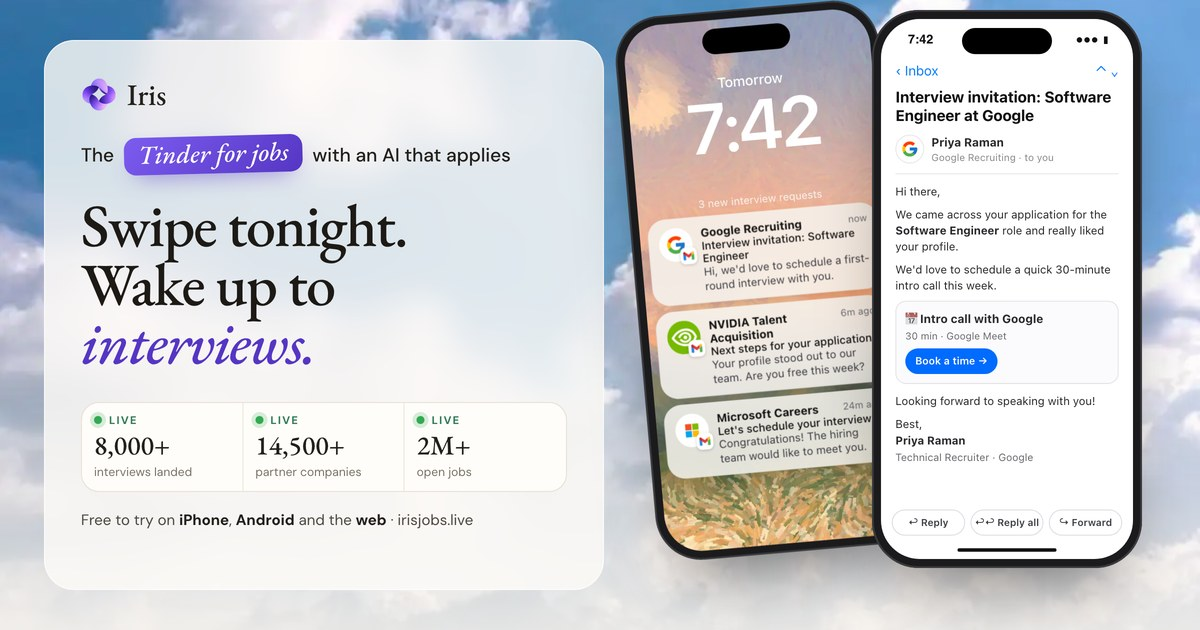
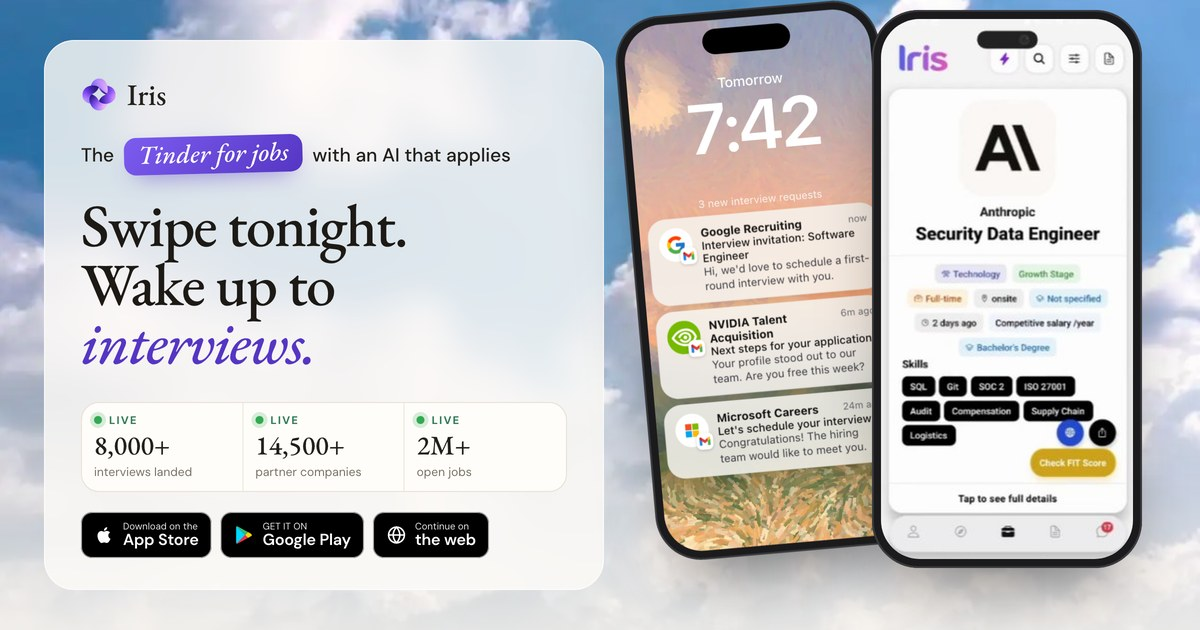
feat(og): job-card phone (Anthropic) instead of the email, plus App Store / Google Play / web badges, v=6

diff --git a/public/blog/index.html b/public/blog/index.html
@@ -13,11 +13,11 @@
   <meta property="og:title" content="Blog: Job Search Tips &amp; AI Job Applications | Iris">
   <meta property="og:description" content="Practical job search advice from the team behind Iris: ATS-friendly resumes, choosing which jobs to apply to, and applying with AI.">
   <meta property="og:url" content="https://irisjobs.live/blog/">
-  <meta property="og:image" content="https://irisjobs.live/media/iris-og.jpg?v=5">
+  <meta property="og:image" content="https://irisjobs.live/media/iris-og.jpg?v=6">
   <meta name="twitter:card" content="summary_large_image">
   <meta name="twitter:title" content="Blog: Job Search Tips &amp; AI Job Applications | Iris">
   <meta name="twitter:description" content="Practical job search advice from the team behind Iris: ATS-friendly resumes, choosing which jobs to apply to, and applying with AI.">
-  <meta name="twitter:image" content="https://irisjobs.live/media/iris-og.jpg?v=5">
+  <meta name="twitter:image" content="https://irisjobs.live/media/iris-og.jpg?v=6">
   <meta name="robots" content="index, follow, max-image-preview:large, max-snippet:-1">
   <script type="application/ld+json">{"@context": "https://schema.org", "@type": "Blog", "name": "The Iris Blog", "url": "https://irisjobs.live/blog/", "description": "Notes on job hunting, hiring, and what AI is changing about both.", "publisher": {"@type": "Organization", "name": "Iris", "url": "https://irisjobs.live", "logo": "https://irisjobs.live/logo.png", "sameAs": ["https://www.instagram.com/irisjobs.live/", "https://x.com/irisjobslive", "https://www.linkedin.com/company/tryiris/about/"]}, "blogPost": [{"@type": "BlogPosting", "headline": "Iris vs other AI job application tools: an honest comparison (2026)", "url": "https://irisjobs.live/blog/iris-vs-competitors/", "datePublished": "2026-11-03", "dateModified": "2026-11-03"}, {"@type": "BlogPosting", "headline": "Iris vs Wonsulting: which is better for applying to jobs in 2026?", "url": "https://irisjobs.live/blog/iris-vs-wonsulting/", "datePublished": "2026-11-03", "dateModified": "2026-11-03"}, {"@type": "BlogPosting", "headline": "Iris vs Wobo AI: which is better for applying to jobs in 2026?", "url": "https://irisjobs.live/blog/iris-vs-wobo-ai/", "datePublished": "2026-11-03", "dateModified": "2026-11-03"}, {"@type": "BlogPosting", "headline": "Iris vs Tsenta: which is better for applying to jobs in 2026?", "url": "https://irisjobs.live/blog/iris-vs-tsenta/", "datePublished": "2026-11-03", "dateModified": "2026-11-03"}, {"@type": "BlogPosting", "headline": "Iris vs Teal: which is better for applying to jobs in 2026?", "url": "https://irisjobs.live/blog/iris-vs-teal/", "datePublished": "2026-11-03", "dateModified": "2026-11-03"}, {"@type": "BlogPosting", "headline": "Iris vs Sorce: which is better for applying to jobs in 2026?", "url": "https://irisjobs.live/blog/iris-vs-sorce-jobs/", "datePublished": "2026-11-03", "dateModified": "2026-11-03"}, {"@type": "BlogPosting", "headline": "Iris vs Sonara: which is better for applying to jobs in 2026?", "url": "https://irisjobs.live/blog/iris-vs-sonara/", "datePublished": "2026-11-03", "dateModified": "2026-11-03"}, {"@type": "BlogPosting", "headline": "Iris vs Simplify: which is better for applying to jobs in 2026?", "url": "https://irisjobs.live/blog/iris-vs-simplify/", "datePublished": "2026-11-03", "dateModified": "2026-11-03"}, {"@type": "BlogPosting", "headline": "Iris vs Scale.jobs: which is better for applying to jobs in 2026?", "url": "https://irisjobs.live/blog/iris-vs-scale-jobs/", "datePublished": "2026-11-03", "dateModified": "2026-11-03"}, {"@type": "BlogPosting", "headline": "Iris vs Massive: which is better for applying to jobs in 2026?", "url": "https://irisjobs.live/blog/iris-vs-massive/", "datePublished": "2026-11-03", "dateModified": "2026-11-03"}, {"@type": "BlogPosting", "headline": "Iris vs LoopCV: which is better for applying to jobs in 2026?", "url": "https://irisjobs.live/blog/iris-vs-loopcv/", "datePublished": "2026-11-03", "dateModified": "2026-11-03"}, {"@type": "BlogPosting", "headline": "Iris vs LazyApply: which is better for applying to jobs in 2026?", "url": "https://irisjobs.live/blog/iris-vs-lazyapply/", "datePublished": "2026-11-03", "dateModified": "2026-11-03"}, {"@type": "BlogPosting", "headline": "Iris vs Jobsolv: which is better for applying to jobs in 2026?", "url": "https://irisjobs.live/blog/iris-vs-jobsolv/", "datePublished": "2026-11-03", "dateModified": "2026-11-03"}, {"@type": "BlogPosting", "headline": "Iris vs Jobscan: which is better for applying to jobs in 2026?", "url": "https://irisjobs.live/blog/iris-vs-jobscan/", "datePublished": "2026-11-03", "dateModified": "2026-11-03"}, {"@type": "BlogPosting", "headline": "Iris vs Jobright: which is better for applying to jobs in 2026?", "url": "https://irisjobs.live/blog/iris-vs-jobright/", "datePublished": "2026-11-03", "dateModified": "2026-11-03"}, {"@type": "BlogPosting", "headline": "Iris vs Jobhire.ai: which is better for applying to jobs in 2026?", "url": "https://irisjobs.live/blog/iris-vs-jobhire-ai/", "datePublished": "2026-11-03", "dateModified": "2026-11-03"}, {"@type": "BlogPosting", "headline": "Iris vs JobCopilot: which is better for applying to jobs in 2026?", "url": "https://irisjobs.live/blog/iris-vs-jobcopilot/", "datePublished": "2026-11-03", "dateModified": "2026-11-03"}, {"@type": "BlogPosting", "headline": "Iris vs Huntr: which is better for applying to jobs in 2026?", "url": "https://irisjobs.live/blog/iris-vs-huntr/", "datePublished": "2026-11-03", "dateModified": "2026-11-03"}, {"@type": "BlogPosting", "headline": "Iris vs FastApply: which is better for applying to jobs in 2026?", "url": "https://irisjobs.live/blog/iris-vs-fastapply/", "datePublished": "2026-11-03", "dateModified": "2026-11-03"}, {"@type": "BlogPosting", "headline": "Iris vs Careerflow: which is better for applying to jobs in 2026?", "url": "https://irisjobs.live/blog/iris-vs-careerflow/", "datePublished": "2026-11-03", "dateModified": "2026-11-03"}, {"@type": "BlogPosting", "headline": "Iris vs AutoApplyMax: which is better for applying to jobs in 2026?", "url": "https://irisjobs.live/blog/iris-vs-autoapplymax/", "datePublished": "2026-11-03", "dateModified": "2026-11-03"}, {"@type": "BlogPosting", "headline": "Iris vs ApplyPass: which is better for applying to jobs in 2026?", "url": "https://irisjobs.live/blog/iris-vs-applypass/", "datePublished": "2026-11-03", "dateModified": "2026-11-03"}, {"@type": "BlogPosting", "headline": "Iris vs AIHawk: which is better for applying to jobs in 2026?", "url": "https://irisjobs.live/blog/iris-vs-aihawk/", "datePublished": "2026-11-03", "dateModified": "2026-11-03"}, {"@type": "BlogPosting", "headline": "Iris vs AIApply: which is better for applying to jobs in 2026?", "url": "https://irisjobs.live/blog/iris-vs-aiapply/", "datePublished": "2026-11-03", "dateModified": "2026-11-03"}, {"@type": "BlogPosting", "headline": "Why the job search feels broken, and how AI auto-apply fixes it", "url": "https://irisjobs.live/blog/why-job-search-feels-broken/", "datePublished": "2026-11-02", "dateModified": "2026-11-02"}, {"@type": "BlogPosting", "headline": "Which jobs should you apply to? A 4-question checklist", "url": "https://irisjobs.live/blog/which-jobs-to-swipe-right-on/", "datePublished": "2026-11-02", "dateModified": "2026-11-02"}, {"@type": "BlogPosting", "headline": "Introducing Iris: the swipe-to-apply AI job application app", "url": "https://irisjobs.live/blog/introducing-iris/", "datePublished": "2026-11-02", "dateModified": "2026-11-02"}, {"@type": "BlogPosting", "headline": "How to write an ATS-friendly resume that applicant tracking systems can read", "url": "https://irisjobs.live/blog/ats-friendly-resume/", "datePublished": "2026-11-02", "dateModified": "2026-11-02"}]}</script>
   <link rel="alternate" type="application/rss+xml" title="Iris Blog" href="https://irisjobs.live/blog/rss.xml">

diff --git a/public/tinder-for-jobs/index.html b/public/tinder-for-jobs/index.html
@@ -13,11 +13,11 @@
   <meta property="og:site_name" content="Iris">
   <meta property="og:title" content="Tinder for Jobs: Swipe Right and AI Applies | Iris">
   <meta property="og:description" content="Swipe through job cards. Swipe right, and AI fills in and submits the application for you.">
-  <meta property="og:image" content="https://irisjobs.live/media/iris-og.jpg?v=5">
+  <meta property="og:image" content="https://irisjobs.live/media/iris-og.jpg?v=6">
   <meta name="twitter:card" content="summary_large_image">
   <meta name="twitter:title" content="Tinder for Jobs: Swipe Right and AI Applies | Iris">
   <meta name="twitter:description" content="Swipe through job cards. Swipe right, and AI fills in and submits the application for you.">
-  <meta name="twitter:image" content="https://irisjobs.live/media/iris-og.jpg?v=5">
+  <meta name="twitter:image" content="https://irisjobs.live/media/iris-og.jpg?v=6">
   <link rel="icon" type="image/png" href="/favicon-48.png">
   <link rel="apple-touch-icon" href="/icon-192.png">
   <script type="application/ld+json">{"@context":"https://schema.org","@graph":[{"@type":"WebPage","name":"Tinder for Jobs","url":"https://irisjobs.live/tinder-for-jobs/","isPartOf":{"@type":"WebSite","name":"Iris","url":"https://irisjobs.live/"}},{"@type":"BreadcrumbList","itemListElement":[{"@type":"ListItem","position":1,"name":"Iris","item":"https://irisjobs.live/"},{"@type":"ListItem","position":2,"name":"Tinder for jobs","item":"https://irisjobs.live/tinder-for-jobs/"}]},{"@type":"FAQPage","mainEntity":[{"@type":"Question","name":"What does Tinder for jobs mean?","acceptedAnswer":{"@type":"Answer","text":"It describes a job search app where you swipe through job cards instead of scrolling through listings. In Iris, swiping right also sends the application, because AI fills in the form for you."}},{"@type":"Question","name":"Is Iris free to try?","acceptedAnswer":{"@type":"Answer","text":"Yes. You can start for free with a set number of applications, and paid plans give you more."}},{"@type":"Question","name":"Does swiping right really apply to the job?","acceptedAnswer":{"@type":"Answer","text":"Yes. Iris submits the application on the company's own job portal using your resume and profile, and you can follow its status in the app."}}]}]}</script>

diff --git a/public/about/index.html b/public/about/index.html
@@ -13,13 +13,13 @@
   <meta property="og:site_name" content="Iris">
   <meta property="og:title" content="About Iris and Founder Aditya Surana">
   <meta property="og:description" content="Iris turns job applications into a single swipe. Meet founder Aditya Surana, an IIT BHU graduate, and learn why he built the Tinder for jobs.">
-  <meta property="og:image" content="https://irisjobs.live/media/iris-og.jpg?v=5">
+  <meta property="og:image" content="https://irisjobs.live/media/iris-og.jpg?v=6">
   <meta property="og:image:width" content="1200">
   <meta property="og:image:height" content="630">
   <meta name="twitter:card" content="summary_large_image">
   <meta name="twitter:title" content="About Iris and Founder Aditya Surana">
   <meta name="twitter:description" content="Iris turns job applications into a single swipe. Meet founder Aditya Surana, an IIT BHU graduate, and learn why he built the Tinder for jobs.">
-  <meta name="twitter:image" content="https://irisjobs.live/media/iris-og.jpg?v=5">
+  <meta name="twitter:image" content="https://irisjobs.live/media/iris-og.jpg?v=6">
   <link rel="icon" type="image/png" href="/favicon-48.png">
   <link rel="apple-touch-icon" href="/icon-192.png">
   <script type="application/ld+json">{"@context": "https://schema.org", "@type": "AboutPage", "url": "https://irisjobs.live/about/", "mainEntity": {"@type": "Person", "name": "Aditya Surana", "jobTitle": "Founder", "worksFor": {"@type": "Organization", "name": "Iris", "url": "https://irisjobs.live"}, "alumniOf": "IIT BHU", "image": "https://irisjobs.live/media/founder/aditya-full.webp", "sameAs": ["https://www.linkedin.com/in/adityasurana7", "https://x.com/theadityasurana", "https://www.instagram.com/adityasurana7", "https://github.com/theadityasurana"]}}</script>

diff --git a/public/blog/authors/iris-team/index.html b/public/blog/authors/iris-team/index.html
@@ -13,11 +13,11 @@
   <meta property="og:title" content="The Iris Team: Who Writes the Iris Blog">
   <meta property="og:description" content="Who writes the Iris blog, how we research job search advice, and how we handle claims about Iris and other tools.">
   <meta property="og:url" content="https://irisjobs.live/blog/authors/iris-team/">
-  <meta property="og:image" content="https://irisjobs.live/media/iris-og.jpg?v=5">
+  <meta property="og:image" content="https://irisjobs.live/media/iris-og.jpg?v=6">
   <meta name="twitter:card" content="summary_large_image">
   <meta name="twitter:title" content="The Iris Team: Who Writes the Iris Blog">
   <meta name="twitter:description" content="Who writes the Iris blog, how we research job search advice, and how we handle claims about Iris and other tools.">
-  <meta name="twitter:image" content="https://irisjobs.live/media/iris-og.jpg?v=5">
+  <meta name="twitter:image" content="https://irisjobs.live/media/iris-og.jpg?v=6">
   <meta name="robots" content="index, follow, max-image-preview:large, max-snippet:-1">
   <script type="application/ld+json">{"@context": "https://schema.org", "@type": "Organization", "name": "The Iris Team", "url": "https://irisjobs.live/blog/authors/iris-team/", "parentOrganization": {"@type": "Organization", "name": "Iris", "url": "https://irisjobs.live", "logo": "https://irisjobs.live/logo.png", "sameAs": ["https://www.instagram.com/irisjobs.live/", "https://x.com/irisjobslive", "https://www.linkedin.com/company/tryiris/about/"]}}</script>
   <link rel="alternate" type="application/rss+xml" title="Iris Blog" href="https://irisjobs.live/blog/rss.xml">

diff --git a/public/jobs/index.html b/public/jobs/index.html
@@ -13,11 +13,11 @@
   <meta property="og:site_name" content="Iris">
   <meta property="og:title" content="Browse jobs | Iris">
   <meta property="og:description" content="Search live roles from company career pages. Find one you like and let Iris apply for you.">
-  <meta property="og:image" content="https://irisjobs.live/media/iris-og.jpg?v=5">
+  <meta property="og:image" content="https://irisjobs.live/media/iris-og.jpg?v=6">
   <meta name="twitter:card" content="summary_large_image">
   <meta name="twitter:title" content="Browse jobs | Iris">
   <meta name="twitter:description" content="Search live roles from company career pages. Find one you like and let Iris apply for you.">
-  <meta name="twitter:image" content="https://irisjobs.live/media/iris-og.jpg?v=5">
+  <meta name="twitter:image" content="https://irisjobs.live/media/iris-og.jpg?v=6">
   <link rel="icon" type="image/png" href="/favicon-48.png">
   <link rel="apple-touch-icon" href="/icon-192.png">
   <script type="application/ld+json">{"@context":"https://schema.org","@type":"CollectionPage","name":"Browse jobs","url":"https://irisjobs.live/jobs/","isPartOf":{"@type":"WebSite","name":"Iris","url":"https://irisjobs.live/"},"breadcrumb":{"@type":"BreadcrumbList","itemListElement":[{"@type":"ListItem","position":1,"name":"Iris","item":"https://irisjobs.live/"},{"@type":"ListItem","position":2,"name":"Jobs","item":"https://irisjobs.live/jobs/"}]}}</script>

diff --git a/public/blog/which-jobs-to-swipe-right-on/index.html b/public/blog/which-jobs-to-swipe-right-on/index.html
@@ -13,11 +13,11 @@
   <meta property="og:title" content="Which Jobs Should You Apply To? A 4-Question Checklist">
   <meta property="og:description" content="Decide which jobs to apply for in seconds: would you accept an offer, is the level right, do you meet the core requirements, and how strong is your fit?">
   <meta property="og:url" content="https://irisjobs.live/blog/which-jobs-to-swipe-right-on/">
-  <meta property="og:image" content="https://irisjobs.live/media/iris-og.jpg?v=5">
+  <meta property="og:image" content="https://irisjobs.live/media/iris-og.jpg?v=6">
   <meta name="twitter:card" content="summary_large_image">
   <meta name="twitter:title" content="Which Jobs Should You Apply To? A 4-Question Checklist">
   <meta name="twitter:description" content="Decide which jobs to apply for in seconds: would you accept an offer, is the level right, do you meet the core requirements, and how strong is your fit?">
-  <meta name="twitter:image" content="https://irisjobs.live/media/iris-og.jpg?v=5">
+  <meta name="twitter:image" content="https://irisjobs.live/media/iris-og.jpg?v=6">
   <meta name="robots" content="index, follow, max-image-preview:large, max-snippet:-1">
   <meta name="keywords" content="which jobs to apply for, job application strategy, should I apply for this job, job search checklist, applying for stretch roles">
   <meta property="article:published_time" content="2026-11-02">

diff --git a/public/blog/why-job-search-feels-broken/index.html b/public/blog/why-job-search-feels-broken/index.html
@@ -13,11 +13,11 @@
   <meta property="og:title" content="Why Job Searching Feels Broken &amp; How AI Auto-Apply Helps">
   <meta property="og:description" content="Job hunting is exhausting because each application takes so long that people apply to too few roles. Here&#x27;s how AI auto-apply changes the maths.">
   <meta property="og:url" content="https://irisjobs.live/blog/why-job-search-feels-broken/">
-  <meta property="og:image" content="https://irisjobs.live/media/iris-og.jpg?v=5">
+  <meta property="og:image" content="https://irisjobs.live/media/iris-og.jpg?v=6">
   <meta name="twitter:card" content="summary_large_image">
   <meta name="twitter:title" content="Why Job Searching Feels Broken &amp; How AI Auto-Apply Helps">
   <meta name="twitter:description" content="Job hunting is exhausting because each application takes so long that people apply to too few roles. Here&#x27;s how AI auto-apply changes the maths.">
-  <meta name="twitter:image" content="https://irisjobs.live/media/iris-og.jpg?v=5">
+  <meta name="twitter:image" content="https://irisjobs.live/media/iris-og.jpg?v=6">
   <meta name="robots" content="index, follow, max-image-preview:large, max-snippet:-1">
   <meta name="keywords" content="job search tips, AI auto apply, how many jobs should I apply to, job search burnout, apply to more jobs faster">
   <meta property="article:published_time" content="2026-11-02">

diff --git a/public/blog/ats-friendly-resume/index.html b/public/blog/ats-friendly-resume/index.html
@@ -13,11 +13,11 @@
   <meta property="og:title" content="How to Write an ATS-Friendly Resume (2026 Guide) | Iris">
   <meta property="og:description" content="Make your resume readable by applicant tracking systems: use one column, standard headings, consistent dates, matching keywords and a text-based PDF or DOCX.">
   <meta property="og:url" content="https://irisjobs.live/blog/ats-friendly-resume/">
-  <meta property="og:image" content="https://irisjobs.live/media/iris-og.jpg?v=5">
+  <meta property="og:image" content="https://irisjobs.live/media/iris-og.jpg?v=6">
   <meta name="twitter:card" content="summary_large_image">
   <meta name="twitter:title" content="How to Write an ATS-Friendly Resume (2026 Guide) | Iris">
   <meta name="twitter:description" content="Make your resume readable by applicant tracking systems: use one column, standard headings, consistent dates, matching keywords and a text-based PDF or DOCX.">
-  <meta name="twitter:image" content="https://irisjobs.live/media/iris-og.jpg?v=5">
+  <meta name="twitter:image" content="https://irisjobs.live/media/iris-og.jpg?v=6">
   <meta name="robots" content="index, follow, max-image-preview:large, max-snippet:-1">
   <meta name="keywords" content="ATS-friendly resume, applicant tracking system, ATS resume format, resume keywords, how to pass ATS">
   <meta property="article:published_time" content="2026-11-02">

diff --git a/public/blog/iris-vs-competitors/index.html b/public/blog/iris-vs-competitors/index.html
@@ -13,11 +13,11 @@
   <meta property="og:title" content="Best Iris Alternatives &amp; Competitors Compared (2026)">
   <meta property="og:description" content="How Iris compares with auto-apply bots, done-for-you services, resume scanners and job trackers, and how to choose the right kind of tool.">
   <meta property="og:url" content="https://irisjobs.live/blog/iris-vs-competitors/">
-  <meta property="og:image" content="https://irisjobs.live/media/iris-og.jpg?v=5">
+  <meta property="og:image" content="https://irisjobs.live/media/iris-og.jpg?v=6">
   <meta name="twitter:card" content="summary_large_image">
   <meta name="twitter:title" content="Best Iris Alternatives &amp; Competitors Compared (2026)">
   <meta name="twitter:description" content="How Iris compares with auto-apply bots, done-for-you services, resume scanners and job trackers, and how to choose the right kind of tool.">
-  <meta name="twitter:image" content="https://irisjobs.live/media/iris-og.jpg?v=5">
+  <meta name="twitter:image" content="https://irisjobs.live/media/iris-og.jpg?v=6">
   <meta name="robots" content="index, follow, max-image-preview:large, max-snippet:-1">
   <meta name="keywords" content="AI job application tools comparison, auto apply tools, Iris alternatives, job application app, Sorce alternative, Simplify alternative">
   <meta property="article:published_time" content="2026-11-03">

diff --git a/public/blog/iris-vs-autoapplymax/index.html b/public/blog/iris-vs-autoapplymax/index.html
@@ -13,11 +13,11 @@
   <meta property="og:title" content="Iris vs AutoApplyMax (2026): Features and Pricing">
   <meta property="og:description" content="Iris vs AutoApplyMax compared: how each one applies, tracking, interview prep and price, and which kind of job seeker each suits best.">
   <meta property="og:url" content="https://irisjobs.live/blog/iris-vs-autoapplymax/">
-  <meta property="og:image" content="https://irisjobs.live/media/iris-og.jpg?v=5">
+  <meta property="og:image" content="https://irisjobs.live/media/iris-og.jpg?v=6">
   <meta name="twitter:card" content="summary_large_image">
   <meta name="twitter:title" content="Iris vs AutoApplyMax (2026): Features and Pricing">
   <meta name="twitter:description" content="Iris vs AutoApplyMax compared: how each one applies, tracking, interview prep and price, and which kind of job seeker each suits best.">
-  <meta name="twitter:image" content="https://irisjobs.live/media/iris-og.jpg?v=5">
+  <meta name="twitter:image" content="https://irisjobs.live/media/iris-og.jpg?v=6">
   <meta name="robots" content="index, follow, max-image-preview:large, max-snippet:-1">
   <meta name="keywords" content="Iris vs AutoApplyMax, AutoApplyMax alternative, AutoApplyMax review, AI job application app, auto apply jobs">
   <meta property="article:published_time" content="2026-11-03">

diff --git a/public/blog/introducing-iris/index.html b/public/blog/introducing-iris/index.html
@@ -13,11 +13,11 @@
   <meta property="og:title" content="Iris: The AI App That Applies to Jobs When You Swipe">
   <meta property="og:description" content="Iris is a free AI job application app for iPhone and Android. Swipe right on a job and Iris fills in and submits the application for you.">
   <meta property="og:url" content="https://irisjobs.live/blog/introducing-iris/">
-  <meta property="og:image" content="https://irisjobs.live/media/iris-og.jpg?v=5">
+  <meta property="og:image" content="https://irisjobs.live/media/iris-og.jpg?v=6">
   <meta name="twitter:card" content="summary_large_image">
   <meta name="twitter:title" content="Iris: The AI App That Applies to Jobs When You Swipe">
   <meta name="twitter:description" content="Iris is a free AI job application app for iPhone and Android. Swipe right on a job and Iris fills in and submits the application for you.">
-  <meta name="twitter:image" content="https://irisjobs.live/media/iris-og.jpg?v=5">
+  <meta name="twitter:image" content="https://irisjobs.live/media/iris-og.jpg?v=6">
   <meta name="robots" content="index, follow, max-image-preview:large, max-snippet:-1">
   <meta name="keywords" content="AI job application app, auto apply to jobs, Tinder for jobs, apply to jobs with AI, job search app">
   <meta property="article:published_time" content="2026-11-02">

diff --git a/public/blog/iris-vs-careerflow/index.html b/public/blog/iris-vs-careerflow/index.html
@@ -13,11 +13,11 @@
   <meta property="og:title" content="Iris vs Careerflow (2026): Features and Pricing">
   <meta property="og:description" content="Iris vs Careerflow compared: how each one applies, tracking, interview prep and price, and which kind of job seeker each suits best.">
   <meta property="og:url" content="https://irisjobs.live/blog/iris-vs-careerflow/">
-  <meta property="og:image" content="https://irisjobs.live/media/iris-og.jpg?v=5">
+  <meta property="og:image" content="https://irisjobs.live/media/iris-og.jpg?v=6">
   <meta name="twitter:card" content="summary_large_image">
   <meta name="twitter:title" content="Iris vs Careerflow (2026): Features and Pricing">
   <meta name="twitter:description" content="Iris vs Careerflow compared: how each one applies, tracking, interview prep and price, and which kind of job seeker each suits best.">
-  <meta name="twitter:image" content="https://irisjobs.live/media/iris-og.jpg?v=5">
+  <meta name="twitter:image" content="https://irisjobs.live/media/iris-og.jpg?v=6">
   <meta name="robots" content="index, follow, max-image-preview:large, max-snippet:-1">
   <meta name="keywords" content="Iris vs Careerflow, Careerflow alternative, Careerflow review, AI job application app, auto apply jobs">
   <meta property="article:published_time" content="2026-11-03">
